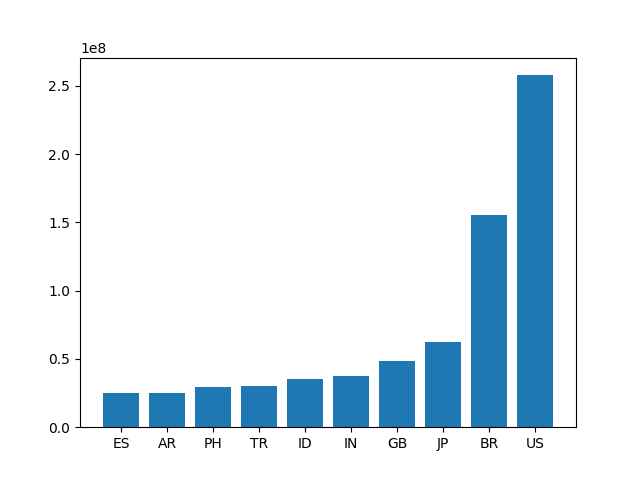
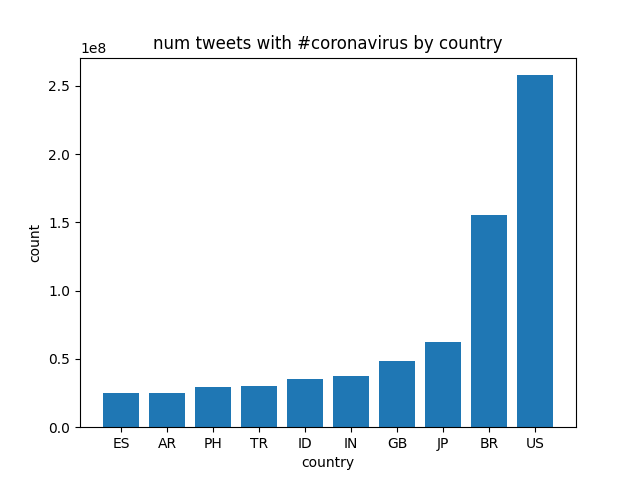
added labels and titles

Changed region(s): [[0.25, 0.0625, 0.7812, 0.125], [0.4688, 0.9375, 0.5625, 0.9688], [0.0312, 0.4688, 0.0625, 0.5625]]

diff --git a/src/visualize.py b/src/visualize.py
@@ -33,13 +33,10 @@ for k,v in items:
 
     
 df = pd.DataFrame({'labels': [item[0] for item in items[:10]], 'values': [item[1] for item in items[:10]]})
-'''
-labels = [item[0] for item in items[:10]]
-values = [item[1] for item in items[:10]]
-df['labels'] = labels
-df['values'] = values
-'''
 df_sorted = df.sort_values('values')
 
 plt.bar('labels', 'values', data=df_sorted)
+plt.xlabel(args.input_path[8:])
+plt.ylabel('count')
+plt.title(f'num tweets with {args.key} by {args.input_path[8:]}')
 plt.savefig(f'{args.key}_{args.input_path[8:]}.png')
